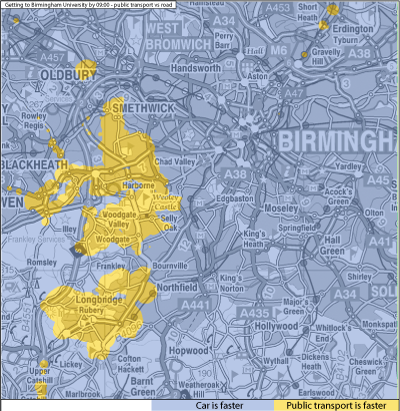
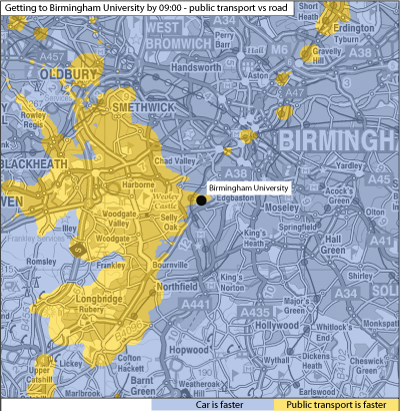
More DfT stuff

diff --git a/ms/web/2007/more-travel-maps/index.php b/ms/web/2007/more-travel-maps/index.php
@@ -7,7 +7,9 @@ include "../../wordpress/wp-content/themes/mysociety/header.php";
 
 <h1>More travel-time Maps and their Uses</h1>
 
-<p>Chris Lightfoot, mySociety &lt;<a href="mailto:chris@mysociety.org">chris@mysociety.org</a>&gt;<br>
+<p>
+Richard Pope, mySociety &lt;<a href="mailto:richard@mysociety.org">richard@mysociety.org</a>&gt;<br>
+Chris Lightfoot, mySociety &lt;<a href="mailto:chris@mysociety.org">chris@mysociety.org</a>&gt;<br>
 Francis Irving, mySociety &lt;<a href="mailto:francis@mysociety.org">francis@mysociety.org</a>&gt;<br>
 Tom Steinberg, mySociety &lt;<a href="mailto:tom@mysociety.org">tom@mysociety.org</a>&gt;<br>
 </p>
@@ -16,7 +18,7 @@ Tom Steinberg, mySociety &lt;<a href="mailto:tom@mysociety.org">tom@mysociety.or
 
 <ul>
 <li><a href="#background">Background</a></li>
-<li><a href="#legibilirty">Improving legibility</a></li>
+<li><a href="#legibilirty">Improving legibility and clarity</a></li>
 <li><a href="#houseprices">House prices</a></li>
 <li><a href="#cartrain">Car vs. public transport</a></li>
 <li><a href="#traincycle">Public transport vs. cycling</a></li>
@@ -32,56 +34,65 @@ mySociety maps mailing list</a>.)</p> -->
 
 <h2><a name="background"></a>Background</h2>
 
-<p>So, the <a href="/2006/travel-time-maps/">first travel time maps</a>,
-built by Chris Lightfoot for mySociety, went down rather well. As well as
-briefly making it into the top three most popular new pages for a while on
-Del.icio.us, the Evening Standard had a 3/4 page splash of the map of London. 
-<p>The Department for Transport then chose to commission us to look into
-various further avenues of this work. This page, launched on 1st Feb 2007 is
-the primary output of that work. We hope you find it useful as well as
-enjoyable.  
+<p>In 2006 Chris Lightfoot produced a series of time travel contour maps, after
+the Department for Transport approached mySociety about experimenting with
+novel ways of re-using public sector data. 
 
-<h2><a name="legibility"></a>Improving legibility</h2>
+<p>If you have not seen this previous work it is important that you now take a <a
+href="/2006/travel-time-maps/">read through the original page</a> to see what
+we were building on. 
 
-<p>Many of the maps we produced last time were very pretty, but could be
-somewhat difficult to interpret. One major task was to read up on how to
-display such complex and valuable data in more intellible ways, and the results
-can be seen below. 
+<p>The original maps were very popular online, and the evening standard even
+published a large article with a copy of one of the maps which covered greater
+London. 
+
+<p>The Department for Transport asked us to show them how this work could be taken
+further, and that is what we are showing here today.
+
+
+<h2><a name="legibility"></a>Improving legibility and clarity</h2>
+
+ 
+<p>Many of the maps we produced last time were very pretty, but could be somewhat
+difficult to interpret. One major task was to read up on how to display such
+complex and valuable data in more intellible ways, and the results can be seen
+below.
 
 <p>Old map of London
 
-<p><a href="/2006/travel-time-maps/multimodal-london-20km-1196px.png"><img src="/2006/travel-time-maps/multimodal-london-20km-1196px.png" width="598" height="569" alt="Old map of London from SW1"></a>
+<p><a href="oldmap.png"><img src="oldmap_small.png" alt="Old map of London from SW1"></a>
 
 <p>New map of London from SW1 
 
-<p>That second map shows travel times to a centre point at the Department for
-Transport headquarters.  Here's a map using a very different part of London as
-its centre, a hospital in the less well connected Denmark Hill.
-
-<p><a href="southlondon.png"><img src="southlondon_small.png" alt="Travel times to Maudsley Hospital in Denmark Hill SE5"></a>
-<br><small>&copy; Crown copyright. All rights reserved. Department&nbsp;for&nbsp;Transport&nbsp;100020237&nbsp;2007</small>
-
-<p>Discrete vs. continuous contours. Better mapping backgrounds.
-
-<p>Travelling to work by 9am
+<p><a href="southlondon.png"><img src="southlondon_small.png" alt=""></a>
+<br><em>Click image for bigger version.</em><br><small>&copy; Crown copyright. All rights reserved. Department&nbsp;for&nbsp;Transport&nbsp;100020237&nbsp;2007</small>
 
 <h2><a name="houseprices"></a>House prices</h2>
 
-<p>Next, it is clearly no good to be told that a location is very convenient
-for your work if you can't afford to live there. So we have produced travel
-maps that show not just where someone working can live if they want to get to
-work swiftly, we can also show what areas they can afford to live in. 
+<p>Next, it is clearly no good to be told that a location is very convenient for
+your work if you can't afford to live there. So we have produced travel maps
+that show not just where someone working can live if they want to get to work
+swiftly, we can also show what areas they can afford to live in. 
 
-<p>Here is a map which is also centered on the hospital in denmark hill, but
-only showing travel times to locations where the average median houseprice is
-below 200,000k 
+<p>To help with this process we picked a real world case study, an NHS doctor
+working at the Maudsley Hospital in Denmark hill, South London. He's thinking
+about getting a foot on the property ladder and wants to know where he might be
+able to live that would both be a tolerable commute, and which he could afford. 
 
-<p>If you're a bit wealthier, you might be interested in a map of London
-centered on the same place, but focussing only on houses from 200-300k
+<p>First, here's a map showing where the Maudsley hospital is. 
 
-<p><!--<a href="rail-cambridge-1500px.png"><img src="rail-cambridge-500px.png" width="288" height="500" alt="Map showing travel times by rail and taxi from Cambridge to other points in Great Britain, starting at 7 o'clock on a weekday morning"></a>
-<br><small>&copy; Crown copyright. All rights reserved. Department&nbsp;for&nbsp;Transport&nbsp;100020237&nbsp;2006</small>-->
-</p>
+<p>Next, we overlay the travel time contours assuming that this Doctor wants to
+get to work by 9AM. As the key shows, each band represents 10 minutes extra
+travel time, so the red circle in the middle means he could leave the house at
+8.50-9 and still get to work on time. The next band out he could leave at
+8.40-8.50, and so on. 
+
+<p>Now let's introduce house prices into the equation. Obviously, at first our
+doctor wants to see what's available at the bottom end of the market, less than
+£250,000 (the average first time buyer price).
+
+<p><a href="houseprices300400.png"><img src="houseprices300400.png" alt="Journey times to Department for Transport and 300k-400k house prices"></a>
+<br><em>Click image for bigger version.</em><br><small>&copy; Crown copyright. All rights reserved. Department&nbsp;for&nbsp;Transport&nbsp;100020237&nbsp;2007</small>
 
 <h2><a name="cartrain"></a>Car vs. public transport</h2>
 
@@ -95,13 +106,13 @@ indicated with the black dots. Click on the maps for larger versions.
 
 <h3>Edinburgh University</h3>
 <p><a href="ed.png"><img src="ed_small.png" alt="Getting to Edinburgh University by 09:00 - public transport vs road"></a>
-<br><small>&copy; Crown copyright. All rights reserved. Department&nbsp;for&nbsp;Transport&nbsp;100020237&nbsp;2007</small>
+<br><em>Click image for bigger version.</em><br><small>&copy; Crown copyright. All rights reserved. Department&nbsp;for&nbsp;Transport&nbsp;100020237&nbsp;2007</small>
 <h3>Cardiff Central Railway Station</h3>
 <p><a href="cardiff.png"><img src="cardiff_small.png" alt="Getting to Cardiff central railway station by 09:00 - public transport vs road"></a>
-<br><small>&copy; Crown copyright. All rights reserved. Department&nbsp;for&nbsp;Transport&nbsp;100020237&nbsp;2007</small>
+<br><em>Click image for bigger version.</em><br><small>&copy; Crown copyright. All rights reserved. Department&nbsp;for&nbsp;Transport&nbsp;100020237&nbsp;2007</small>
 <h3>Birmingham University</h3>
 <p><a href="birmingham.png"><img src="birmingham_small.png" alt="Getting to Birmingham University by 09:00 - public transport vs road"></a>
-<br><small>&copy; Crown copyright. All rights reserved. Department&nbsp;for&nbsp;Transport&nbsp;100020237&nbsp;2007</small>
+<br><em>Click image for bigger version.</em><br><small>&copy; Crown copyright. All rights reserved. Department&nbsp;for&nbsp;Transport&nbsp;100020237&nbsp;2007</small>
 
 <p>Remember, these are not general maps for the whole city, each map is only
 useful for the specific target place of work or study marked with the black
@@ -115,8 +126,8 @@ between the bicycle and everything else. This maps comprehensively shows that
 if you live anywhere near the centre of this map, it's best to get on a bike if
 commuting speed is your main concern.
 
-<p><a href="cycling-vs-public-transport.png"><img width="450" src="cycling-vs-public-transport.png" alt="Getting to Birmingham University by 09:00 - public transport vs road"></a>
-<br><small>&copy; Crown copyright. All rights reserved. Department&nbsp;for&nbsp;Transport&nbsp;100020237&nbsp;2007</small>
+<p><a href="cycling.png"><img width="400" src="cycling_small.png" alt=""></a>
+<br><em>Click image for bigger version.</em><br><small>&copy; Crown copyright. All rights reserved. Department&nbsp;for&nbsp;Transport&nbsp;100020237&nbsp;2007</small>
 
 <h2><a name="realtime"></a>What next? Further work</h2>
 
